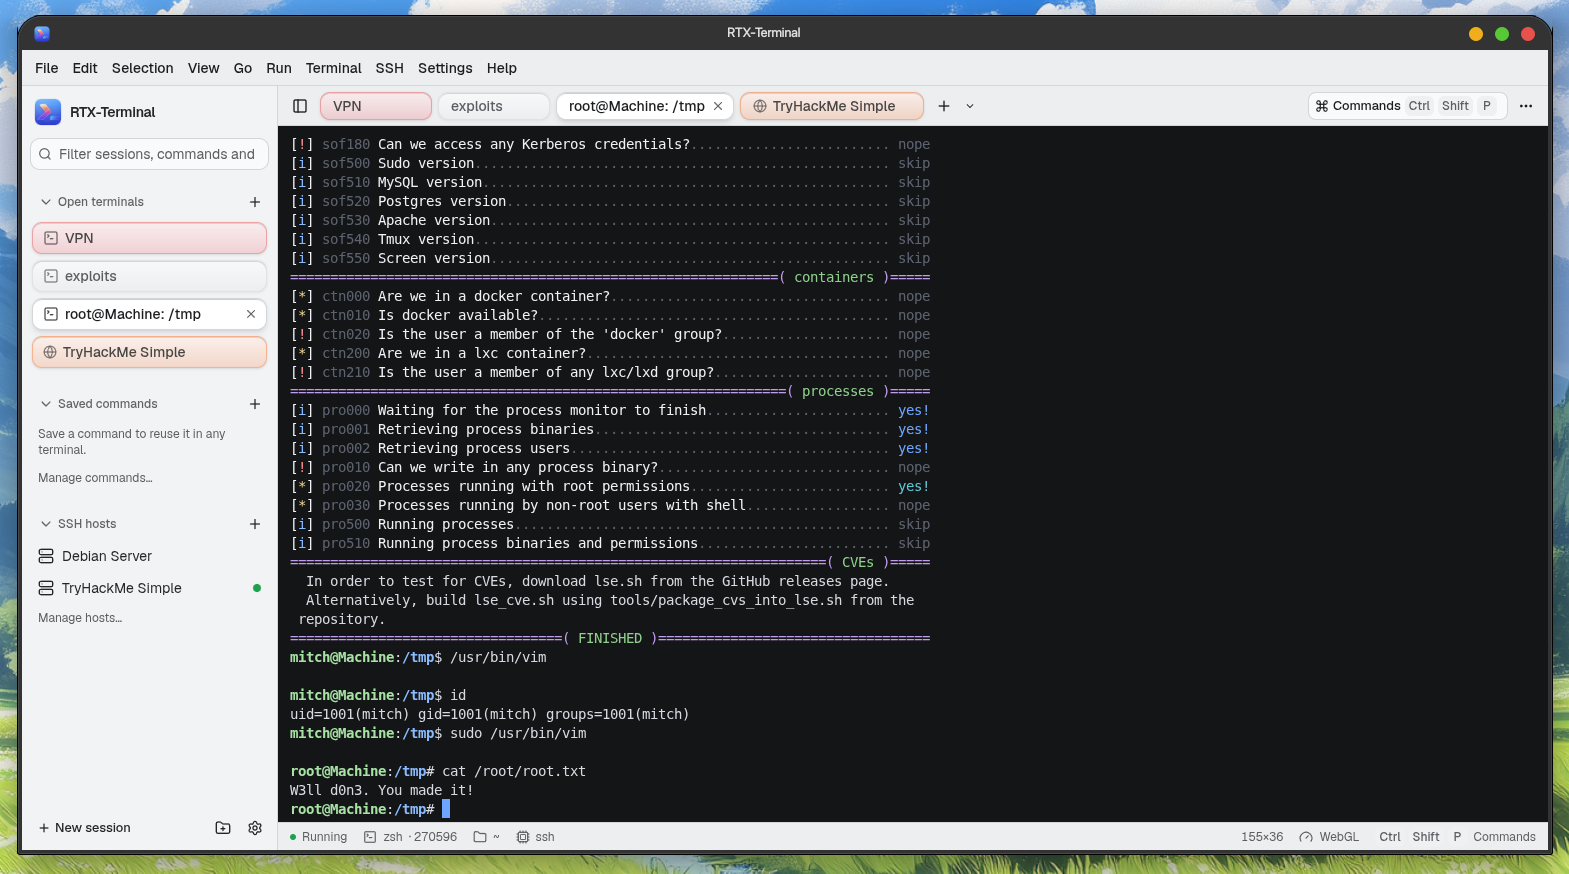
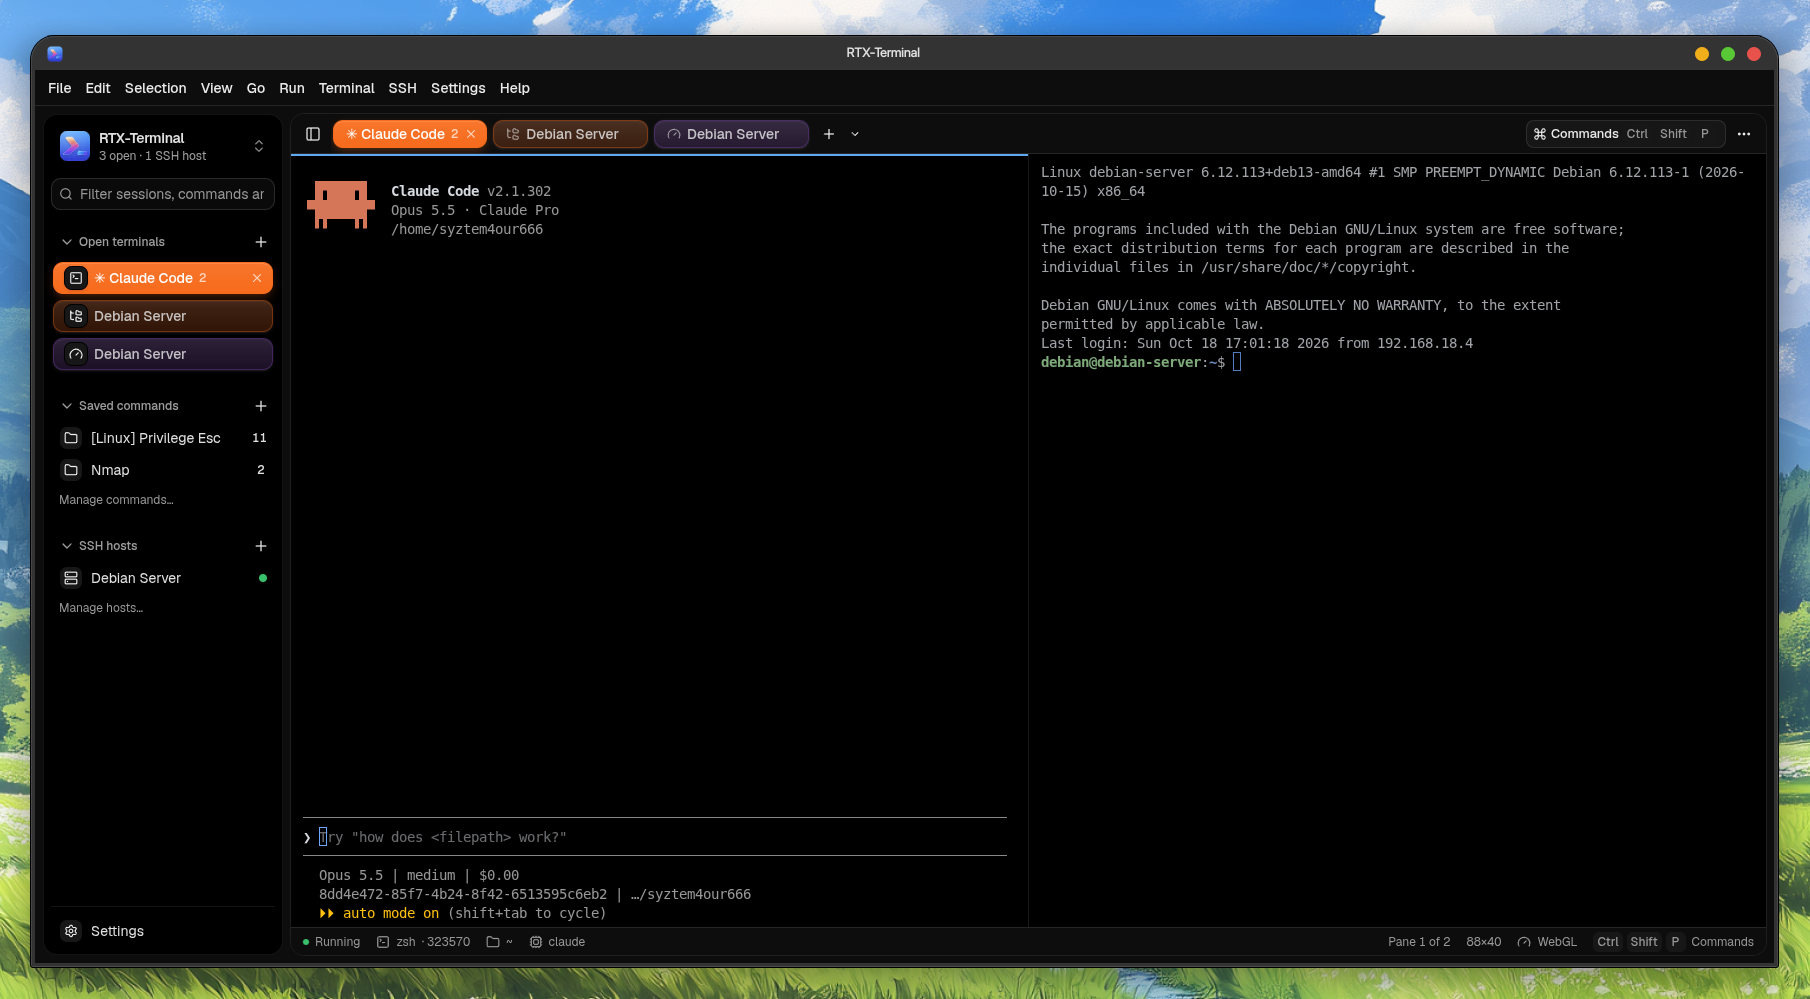
docs: replace README hero screenshot

diff --git a/README.md b/README.md
@@ -27,7 +27,7 @@
 </p>
 
 <p align="center">
-  <img src="public/rtx.png" alt="RTX-Terminal in the Glass theme: a zsh session with the sidebar showing open terminals, saved commands and SSH hosts" width="900">
+  <img src="public/rtx.png" alt="RTX-Terminal with colored tabs: Claude Code in a split pane next to an SSH session on a Debian server, with the sidebar showing open terminals, saved commands and SSH hosts" width="900">
 </p>
 
 ## Install
